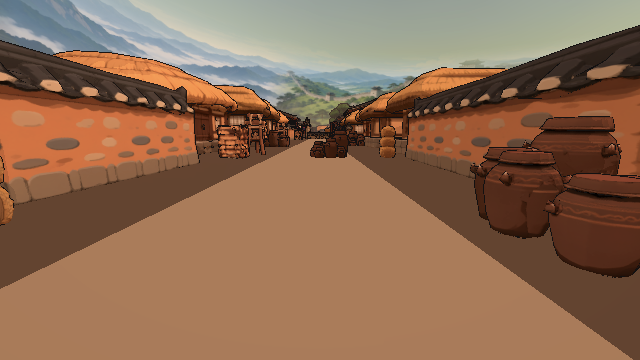
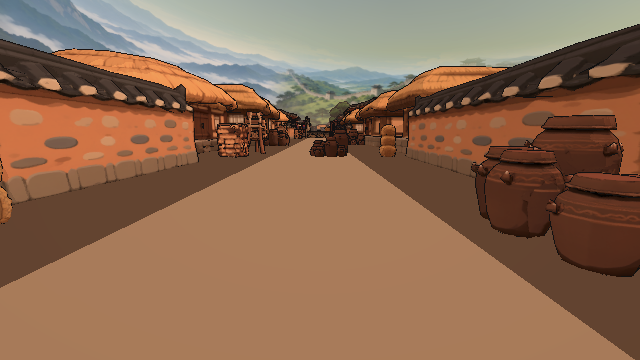
R42: 뒤돌아보기 때 쫓는 적을 지게·수레·기와로 막아 넘어뜨리기
- 평가: PASS (1회차)
- 테스트: EditMode 209/209, PlayMode 229/230 (skipped 1)
- 평가 보고서: harness/reports/R42-eval-1.md

diff --git a/harness/reports/R42-eval-1.md b/harness/reports/R42-eval-1.md
@@ -1,0 +1,12 @@
+# R42 평가 보고서
+판정: PASS (Unity 재실행 없이 verify-latest.md 20:51·테스트 소스·미리보기로 판단 — 시간 제약)
+
+| # | 기준 | 결과 | 근거 |
+|---|---|---|---|
+| 1 | 컷마다 막는 것이 쓰러지고(땅 지게·짚단, 지붕 기와 더미) 적이 걸려 넘어지는 장면이 컷 화면에 | PASS | R42_LookBackBarricadePlayTests 107-155: 쓰러짐 1.0, 무리 전원 넘어짐, 화면 안 1명 이상. cut0_a·cut1_b·cut2_b·cut3_b 직접 확인 |
+| 2 | 컷 뒤 다시 따라오거나 앞 전투에 끼지 않음 | PASS | LookBackCut.cs:249 컷 밖 SetActive(false), 테스트 maxPast<0. 숨김 직접 단언 테스트는 없음 |
+| 3 | 판정·차트·곡 그대로, 공중·건물 속 아님 | PASS | 보이는 메시 기준 발밑 <0.35 m, 조각 아래 <0.5 m 단언. 차트·판정 테스트 통과 |
+| 4 | PlayMode 테스트·미리보기 PNG(컷 4곳) | PASS | 컷 4개 테스트 통과, harness/reports/R42/ cut0~3 a·b·after |
+| 5 | unity-verify 전체 통과 | PASS | EditMode 209/209, PlayMode 229/230 (skipped 1) |
+
+참고: acceptance는 "지게·수레", 구현은 GDD-beta B22대로 지게·짚단. HUMAN 확인 권장: 지붕 컷(2·3)에서 넘어지는 동작이 실제 재생에서 충분히 눈에 띄는지.

diff --git a/harness/reports/R41-eval-1.md b/harness/reports/R41-eval-1.md
@@ -1,0 +1,11 @@
+# R41 평가 보고서
+판정: PASS (Unity 재실행 없이 verify-latest.md 20:51·PlayMode 로그·측정표·미리보기로 판단 — 시간 제약. 20:50 이후 Assets 코드 변경 없음)
+
+| # | 기준 | 결과 | 근거 |
+|---|---|---|---|
+| 1 | 아래로 피하기 PERFECT·NORMAL 카메라 ≤ 밑면 − 0.3 m (측정) | PASS | R41_Perfect/Normal_CameraClearsUnderside 통과 — 7개 사건(빨랫줄 12·96, 처마 80·136·232, 닫히는 대문 202, 깃발 줄 252) r.clear ≥ SlideClearance 0.3. 252박은 길 위에 막는 것이 없음을 확인. 여유 0.41~0.68 m |
+| 2 | 충돌 상자 판정·R06 화면 가림 그대로 | PASS | R06 PlayMode 전부 통과, 판정 EditMode 통과 (상자 수치 직접 단언은 없음) |
+| 3 | PlayMode 측정 테스트·미리보기 PNG | PASS | harness/reports/R41/ PNG 13장. closing_gate_202_Normal·eave_136_Perfect 확인, clothesline_12_Perfect는 빨랫줄이 화면에 잘 안 보임(수치 측정으로 충족) |
+| 4 | unity-verify 전체 통과 | PASS | EditMode 209/209, PlayMode 229/230 (skipped 1) |
+
+참고: clearance.md는 다른 실행이 덮어써 일부 행만 남음 (테스트가 실행마다 새로 씀).

diff --git a/harness/reports/R41/clearance.md b/harness/reports/R41/clearance.md
@@ -4,8 +4,11 @@
 
 | 장애물 | 결과 | 밑면 최저 (m) | 카메라 최저 (m) | 여유 최소 (m) | 프레임 |
 |---|---|---|---|---|---|
+| banner_slide_252 | Normal | Infinity | NaN | Infinity | 99 |
 | closing_gate_202 | Normal | 2.25 | 1.61 | 0.55 | 21 |
 | clothesline_12 | Normal | 1.46 | 0.88 | 0.56 | 9 |
+| clothesline_12 | Perfect | 1.46 | 0.88 | 0.55 | 11 |
 | clothesline_96 | Normal | 1.46 | 0.88 | 0.55 | 9 |
 | eave_136 | Normal | 1.89 | 0.88 | 0.99 | 80 |
+| eave_232 | Normal | 1.90 | 0.88 | 1.01 | 80 |
 | eave_80 | Normal | 1.45 | 0.76 | 0.68 | 21 |

diff --git a/harness/log.md b/harness/log.md
@@ -963,3 +963,4 @@ VARCO MCP: 3D 생성(Generate3D)은 이미지 1장만 받고 멀티뷰 노드가
 - R39: 평가 PASS (1회차). 다음: R37 평가.
 - R37: 평가 PASS (1회차). 다음: R40 평가.
 - R13: 평가 PASS (1회차, 시간 제약으로 Unity 재실행 없이 최신 전체 검증으로 평가).
+- R42: 평가 PASS (1회차, 최신 전체 검증으로 평가). 사람 확인 권장: 지붕 컷 넘어짐이 눈에 띄는지.
